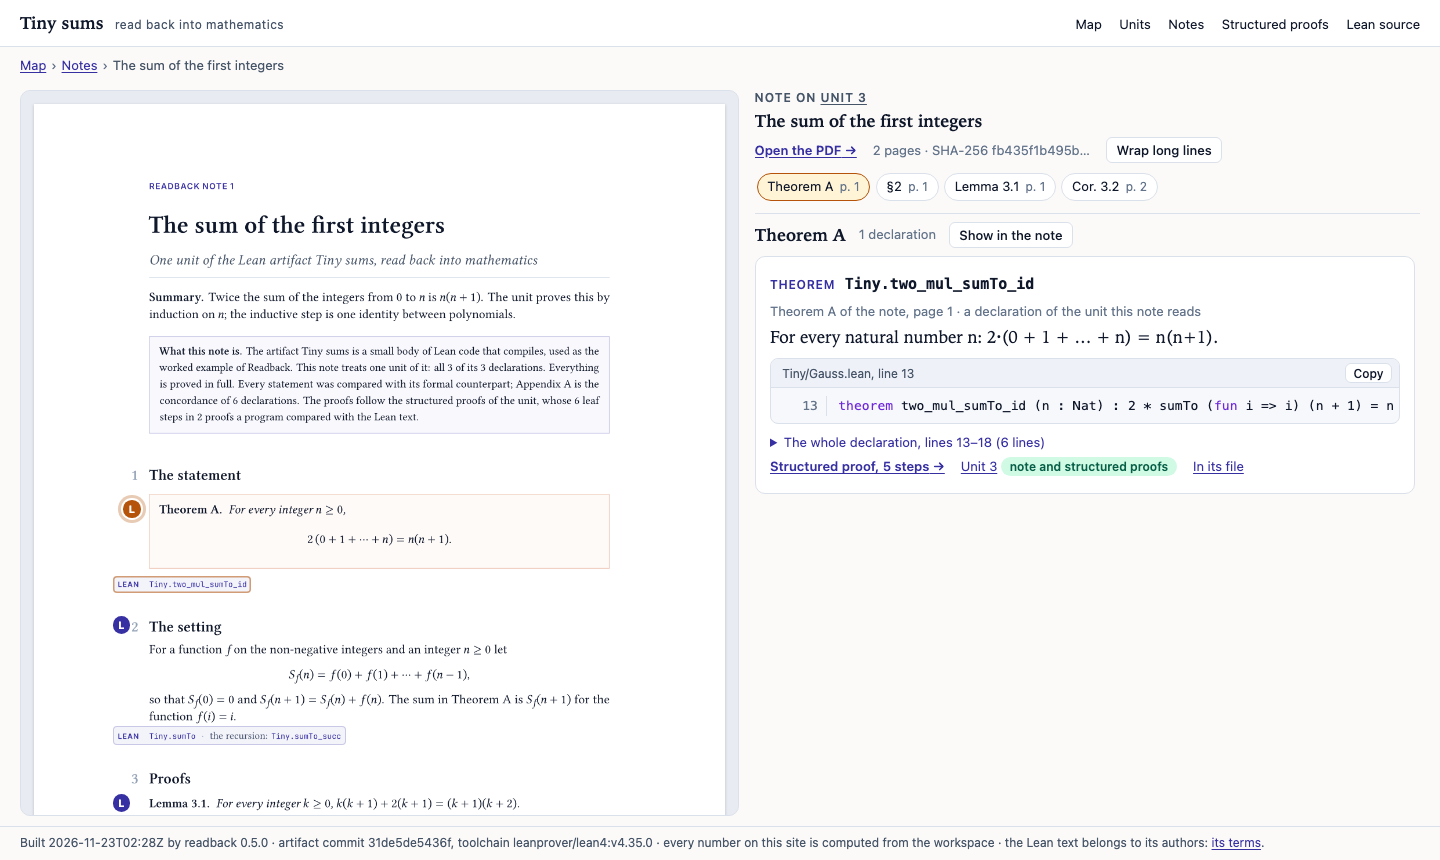
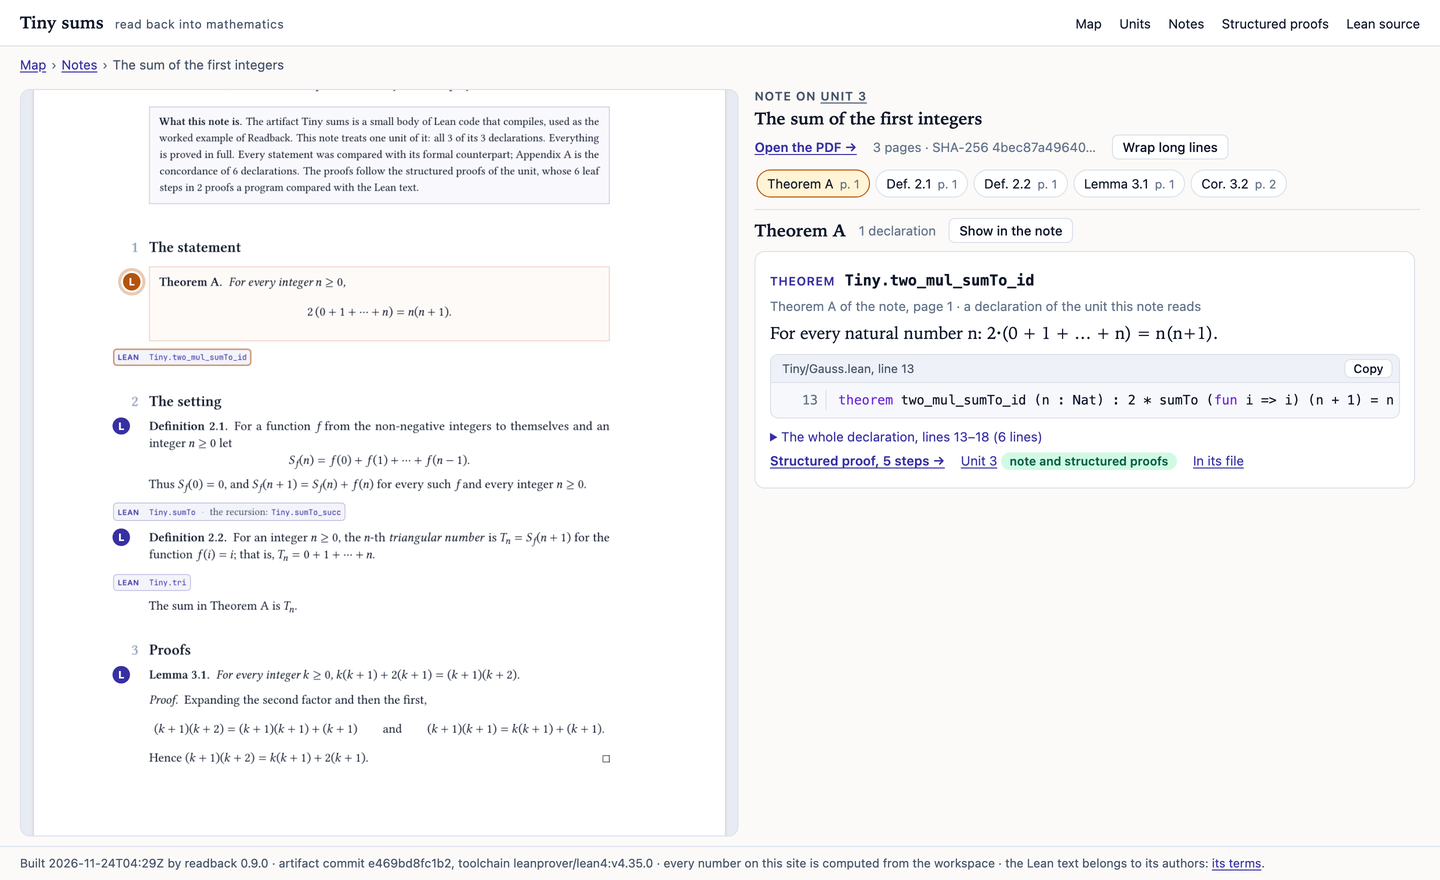
docs: the example picture from 0.9.0; README table header and diagram labels

diff --git a/README.md b/README.md
@@ -31,7 +31,7 @@ declaration.
 
 ## At a glance
 
-| | |
+| | Readback |
 |---|---|
 | **You give** | a Lean 4 project that compiles, and the name of its root module |
 | **You get** | a map of units (chapters) · structured proofs · typeset notes with a concordance · a reading site · a book *(experimental)* · a record of every exchange |
@@ -45,7 +45,7 @@ declaration.
 ```bash
 git clone https://github.com/nasqret/readback && cd readback
 make selftest        # the whole chain on the example, in a temporary directory
-make install         # the skill for Claude Code, and the commands readback-claude and readback-codex
+make install         # the skill, and the commands readback-claude and readback-codex
 ```
 
 Put the Lean sources in a folder `src/`, go to the folder above it, and start the two agents, each in its own
@@ -81,8 +81,8 @@ flowchart LR
   end
   K --> M["map and reading site<br/>grey where not read"]
   N --> M
-  N -. "round trip" .-> F["Lean again,<br/>from the note alone"]
-  F -. "compared in Lean" .-> A
+  N -.->|round trip| F["Lean again,<br/>from the note alone"]
+  F -.->|compared in Lean| A
 ```
 
 Readback never goes from Lean straight to prose. Between the two stands a **structured proof**:
